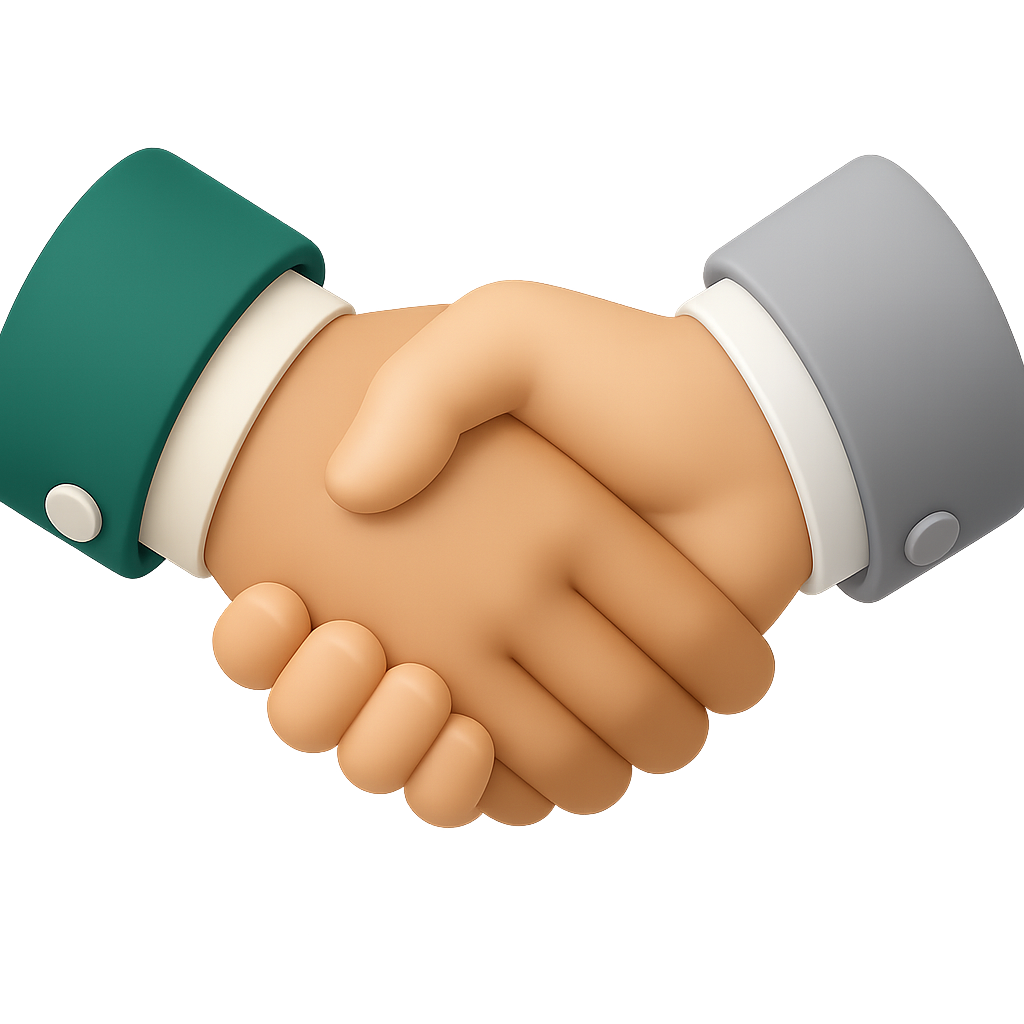
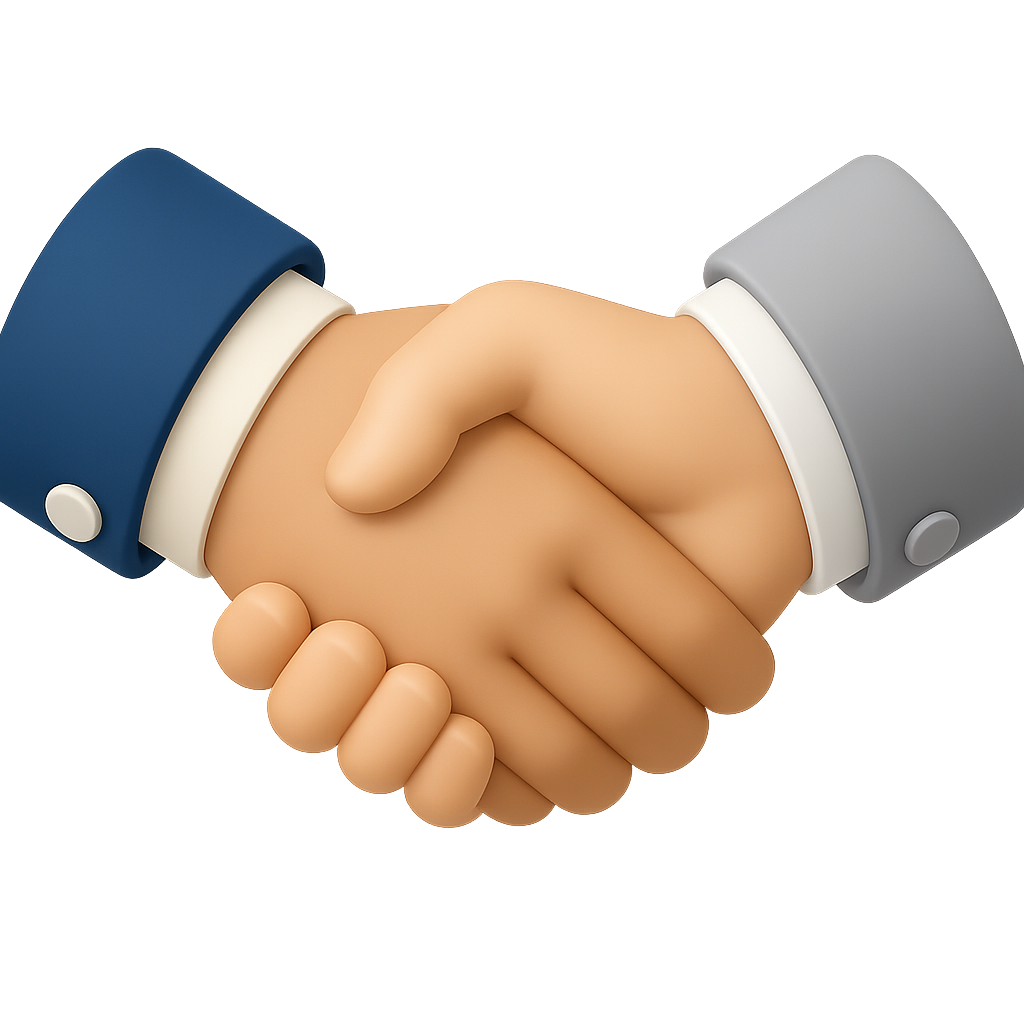
feat(brand): It's-a-Draft celebration goes app-blue — accent semantic.infoDark, blue-sleeve handshake (green removed per brand direction)

Changed region(s): [[0.0, 0.125, 0.3125, 0.5625]]

diff --git a/components/match/MatchCelebration.tsx b/components/match/MatchCelebration.tsx
@@ -33,7 +33,7 @@ import {
 import { brand, semantic } from "@/config/colors";
 import type { UserRole } from "@/store/slices/authSlice";
 
-const ACCENT = semantic.success; // #00B894 brand green
+const ACCENT = semantic.infoDark; // #0984E3 brand blue
 const CONFETTI_COLORS = [
   semantic.success,
   semantic.info,
@@ -396,7 +396,7 @@ export function MatchCelebration({
             ]}
           />
           <LinearGradient
-            colors={["rgba(0,184,148,0.12)", "transparent"]}
+            colors={["rgba(9,132,227,0.12)", "transparent"]}
             style={styles.topWash}
           />
         </Animated.View>
@@ -535,7 +535,7 @@ const styles = StyleSheet.create({
     width: 300,
     height: 300,
     borderRadius: 150,
-    backgroundColor: "rgba(0,184,148,0.16)",
+    backgroundColor: "rgba(9,132,227,0.16)",
   },
   topWash: {
     position: "absolute",
@@ -669,7 +669,7 @@ const styles = StyleSheet.create({
     width: 240,
     height: 240,
     borderRadius: 120,
-    backgroundColor: "rgba(0,184,148,0.10)",
+    backgroundColor: "rgba(9,132,227,0.10)",
   },
   handshakeWrap: {
     width: "100%",
@@ -711,7 +711,7 @@ const styles = StyleSheet.create({
     borderRadius: 17,
     alignItems: "center",
     justifyContent: "center",
-    backgroundColor: "rgba(0,184,148,0.12)",
+    backgroundColor: "rgba(9,132,227,0.12)",
   },
   unlockTextWrap: {
     flex: 1,